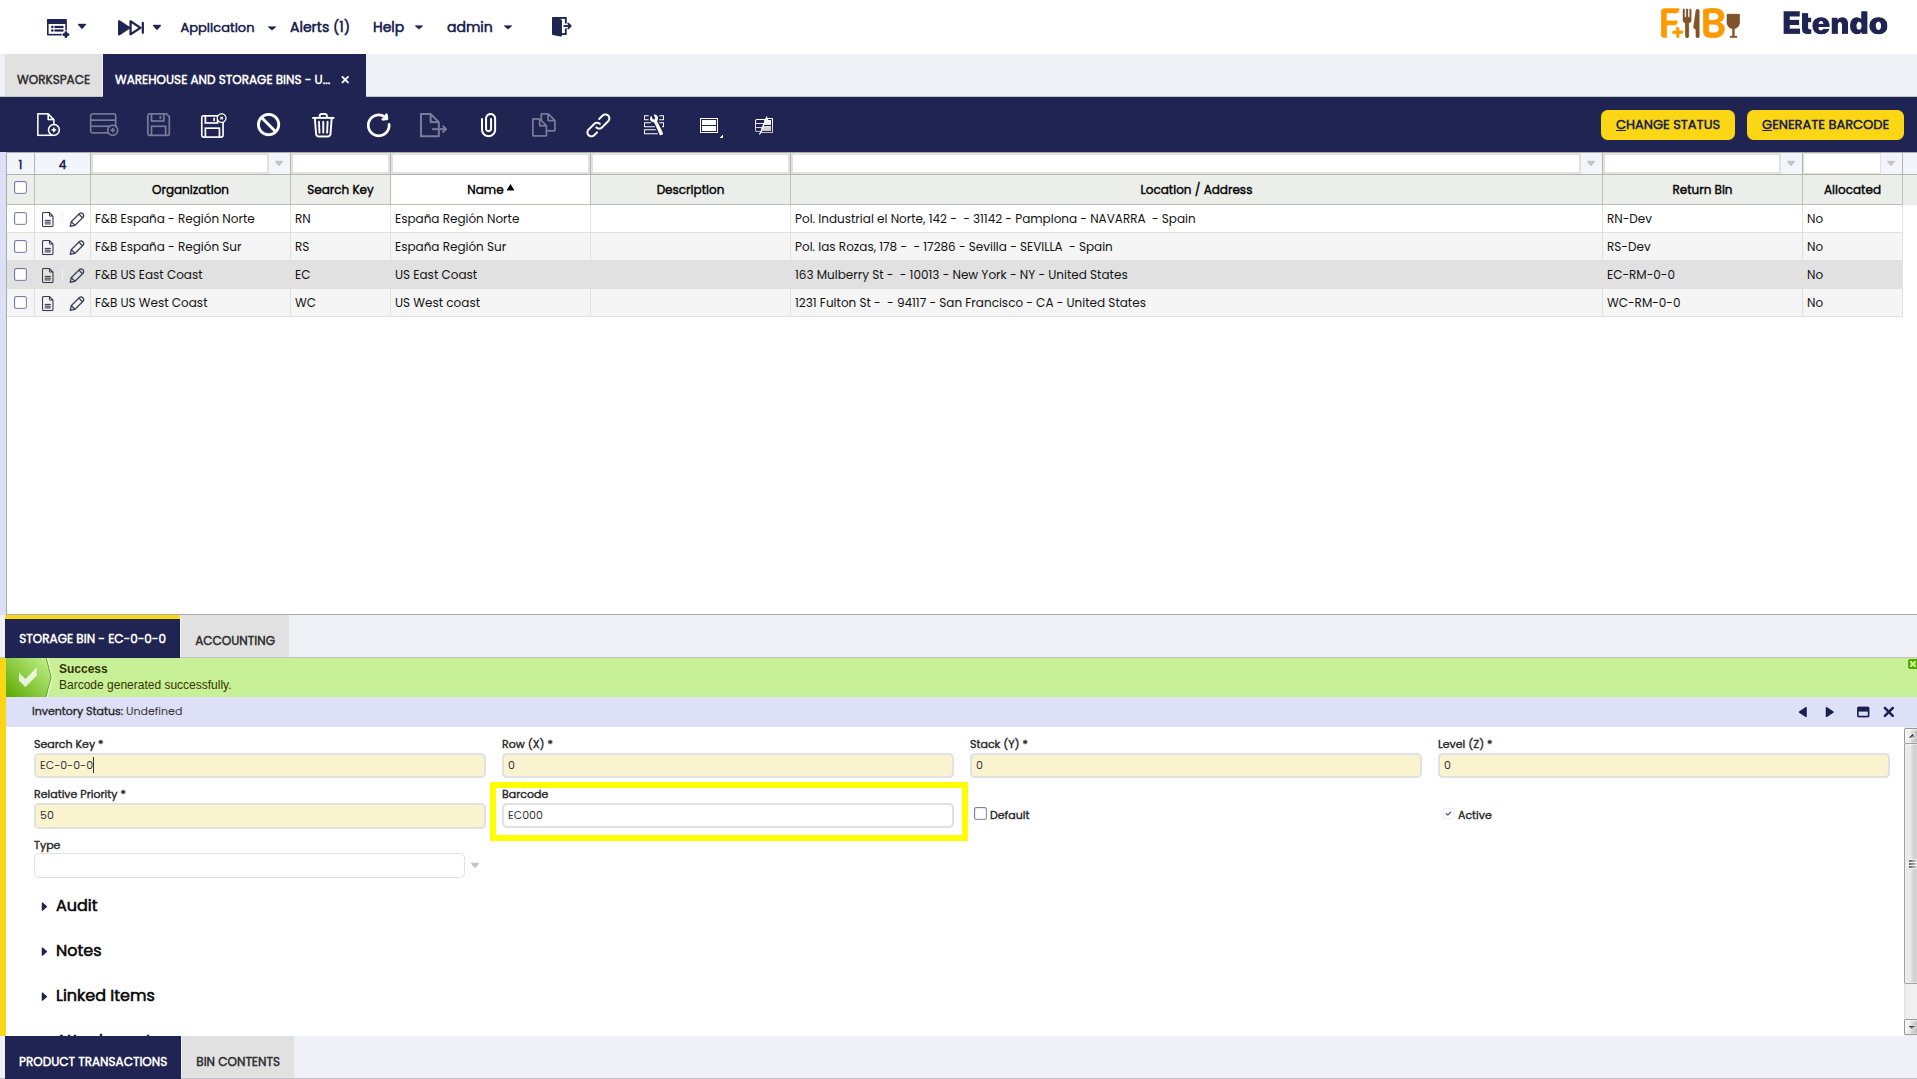
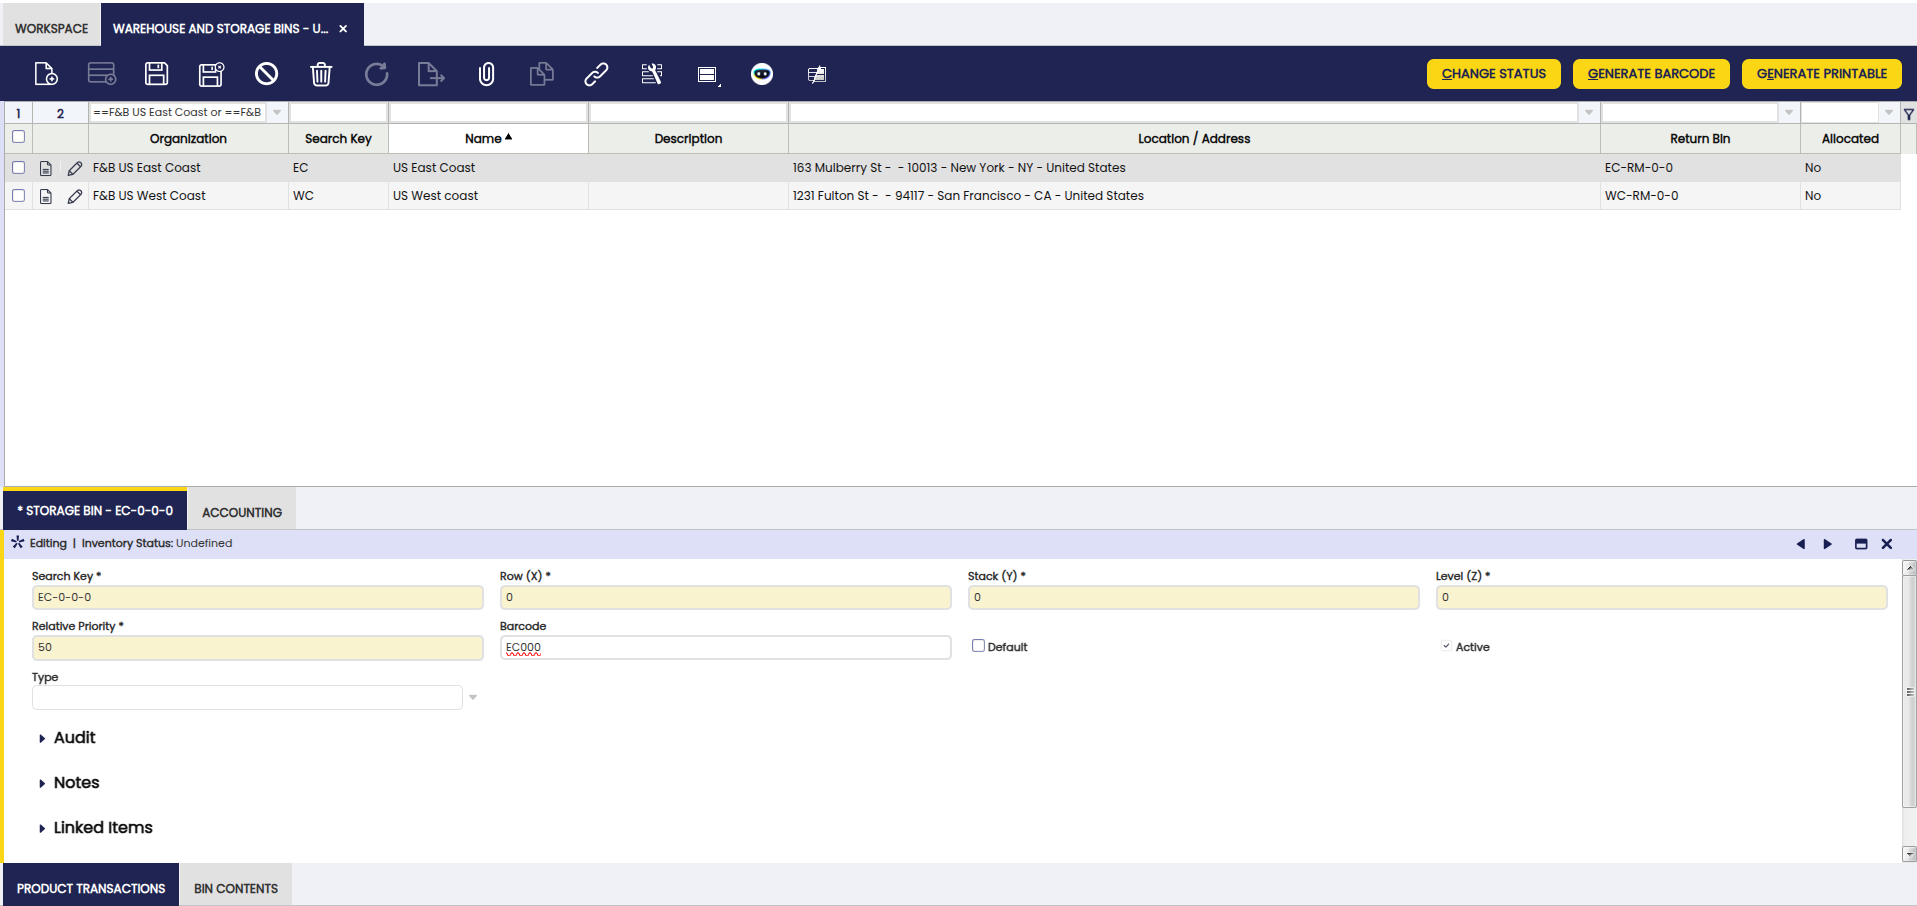
Feature ETP-2567: Barcode and stock logistic unit module documentation

Changed region(s): [[0.0, 0.0, 1.0, 0.3091], [0.0, 0.5254, 1.0, 0.9581], [0.0, 0.8035, 0.1539, 0.989]]

diff --git a/docs/user-guide/etendo-classic/optional-features/bundles/warehouse-extensions/advanced-warehouse-management.md b/docs/user-guide/etendo-classic/optional-features/bundles/warehouse-extensions/advanced-warehouse-management.md
@@ -250,16 +250,31 @@ It is possible to generate these unique codes for storage bins in the **Warehous
 
     3. The generated code is displayed in the storage bin. It can also be loaded manually or modified.
 
-        ![](../../../../../assets/user-guide/etendo-classic/optional-features/bundles/warehouse-extensions/advanced-warehouse-management/barcode2.png) 
+        ![](../../../../../assets/user-guide/etendo-classic/optional-features/bundles/warehouse-extensions/advanced-warehouse-management/barcode2.png)
+    
+    4. On the other hand, it can obtain a printout of the generated barcode by clicking on the Generate Printable button. You must select a supplier, the printer, and the number of copies.
+
+        ![](../../../../../assets/user-guide/etendo-classic/optional-features/bundles/warehouse-extensions/advanced-warehouse-management/barcode-print-1.png)
+
+    !!! info
+        To use the print option, you must have the Print Provider module. For details, see [Print Provider](../../../../../user-guide/etendo-classic/optional-features/bundles/platform-extensions/print-provider.md)
 
 === "From the **Product** window"
 
     1. Select the product.
-
+    
     2. Click on Generate Barcode and confirm with Done.
-    3. The generated code is displayed in the Advanced Warehouse Management section of the product. It can also be loaded manually or modified.
-        
-    ![](../../../../../assets/user-guide/etendo-classic/optional-features/bundles/warehouse-extensions/advanced-warehouse-management/barcode4.png)
+    
+    3. The generated code is displayed head of the product window. It can also be loaded manually or modified.
+
+        ![](../../../../../assets/user-guide/etendo-classic/optional-features/bundles/warehouse-extensions/advanced-warehouse-management/barcode4.png)
+    
+    4. It can obtain a printout of the generated barcode by clicking on the Generate Printable button. You must select a supplier, the printer, and the number of copies.
+    
+    ![](../../../../../assets/user-guide/etendo-classic/optional-features/bundles/warehouse-extensions/advanced-warehouse-management/barcode-print-2.png)
+
+    !!! info
+        To use the print option, you must have the Print Provider module. For details, see [Print Provider](../../../../../user-guide/etendo-classic/optional-features/bundles/platform-extensions/print-provider.md)
     
     !!! info 
         In the **Product** window, there is a tab called **Barcode**, where various barcodes associated with the product, such as supplier codes, are listed. These codes are loaded manually, allowing you to specify the algorithm used to encrypt the code and the Application Identifier configuration.
@@ -268,7 +283,6 @@ It is possible to generate these unique codes for storage bins in the **Warehous
         
         - In the **Advanced Warehouse Configuration** window, there is a checkbox labeled `Search Related Barcode`
         - If the checkbox is enabled, when scanning a product from Etendo Mobile, the system will search for matches on all codes listed in the Barcode tab, in addition to the header code.
-
 
 ## Inbound Receipt
 

diff --git a/docs/user-guide/etendo-classic/optional-features/bundles/warehouse-extensions/stock-logistic-unit.md b/docs/user-guide/etendo-classic/optional-features/bundles/warehouse-extensions/stock-logistic-unit.md
@@ -60,6 +60,12 @@ By default, the module includes three preconfigured preferences. These can be di
 
 ## Module Functionality
 
+### Workflow
+
+When a sales order is created that includes products configured with logistics units, the system uses the intelligent reservation logic built into the module to determine how to allocate stock. When completing the order, Etendo evaluates the available inventory and prioritizes the reservation of complete logistics units (e.g., whole boxes or pallets). If there is not enough complete stock to cover the requested quantity, the system supplements the reservation with individual units, always ensuring that the order is fulfilled as far as possible.
+
+In this way, the reservation process is automatically adjusted according to priorities and stock availability, optimizing inventory management and avoiding unnecessary fragmentation.
+
 The **Stock Logistic** Unit module affects several standard Etendo windows, as it introduces new logistic units and their integration with referenced inventory and alternative units of measure.
 
 ### Unit of Measure
@@ -75,8 +81,6 @@ These UOM serve as the basis for configuring products with alternative units, wh
 ![](../../../../../assets/user-guide/etendo-classic/optional-features/bundles/warehouse-extensions/stock-logistic-unit/referenced-inventory-type.png)
 
 In the Referenced Inventory Type window, the module adds the referenced inventory types **Box** and **Pallet**, each with its corresponding sequence. In this way, the referenced inventory retains traceability at the logistics unit level, ensuring consistency between the defined AUOMs and stock records. Reservations are updated using logic that allows alternative units of measurement to be taken into account.
-
-### Product
 
 ### Alternate UOM
 
